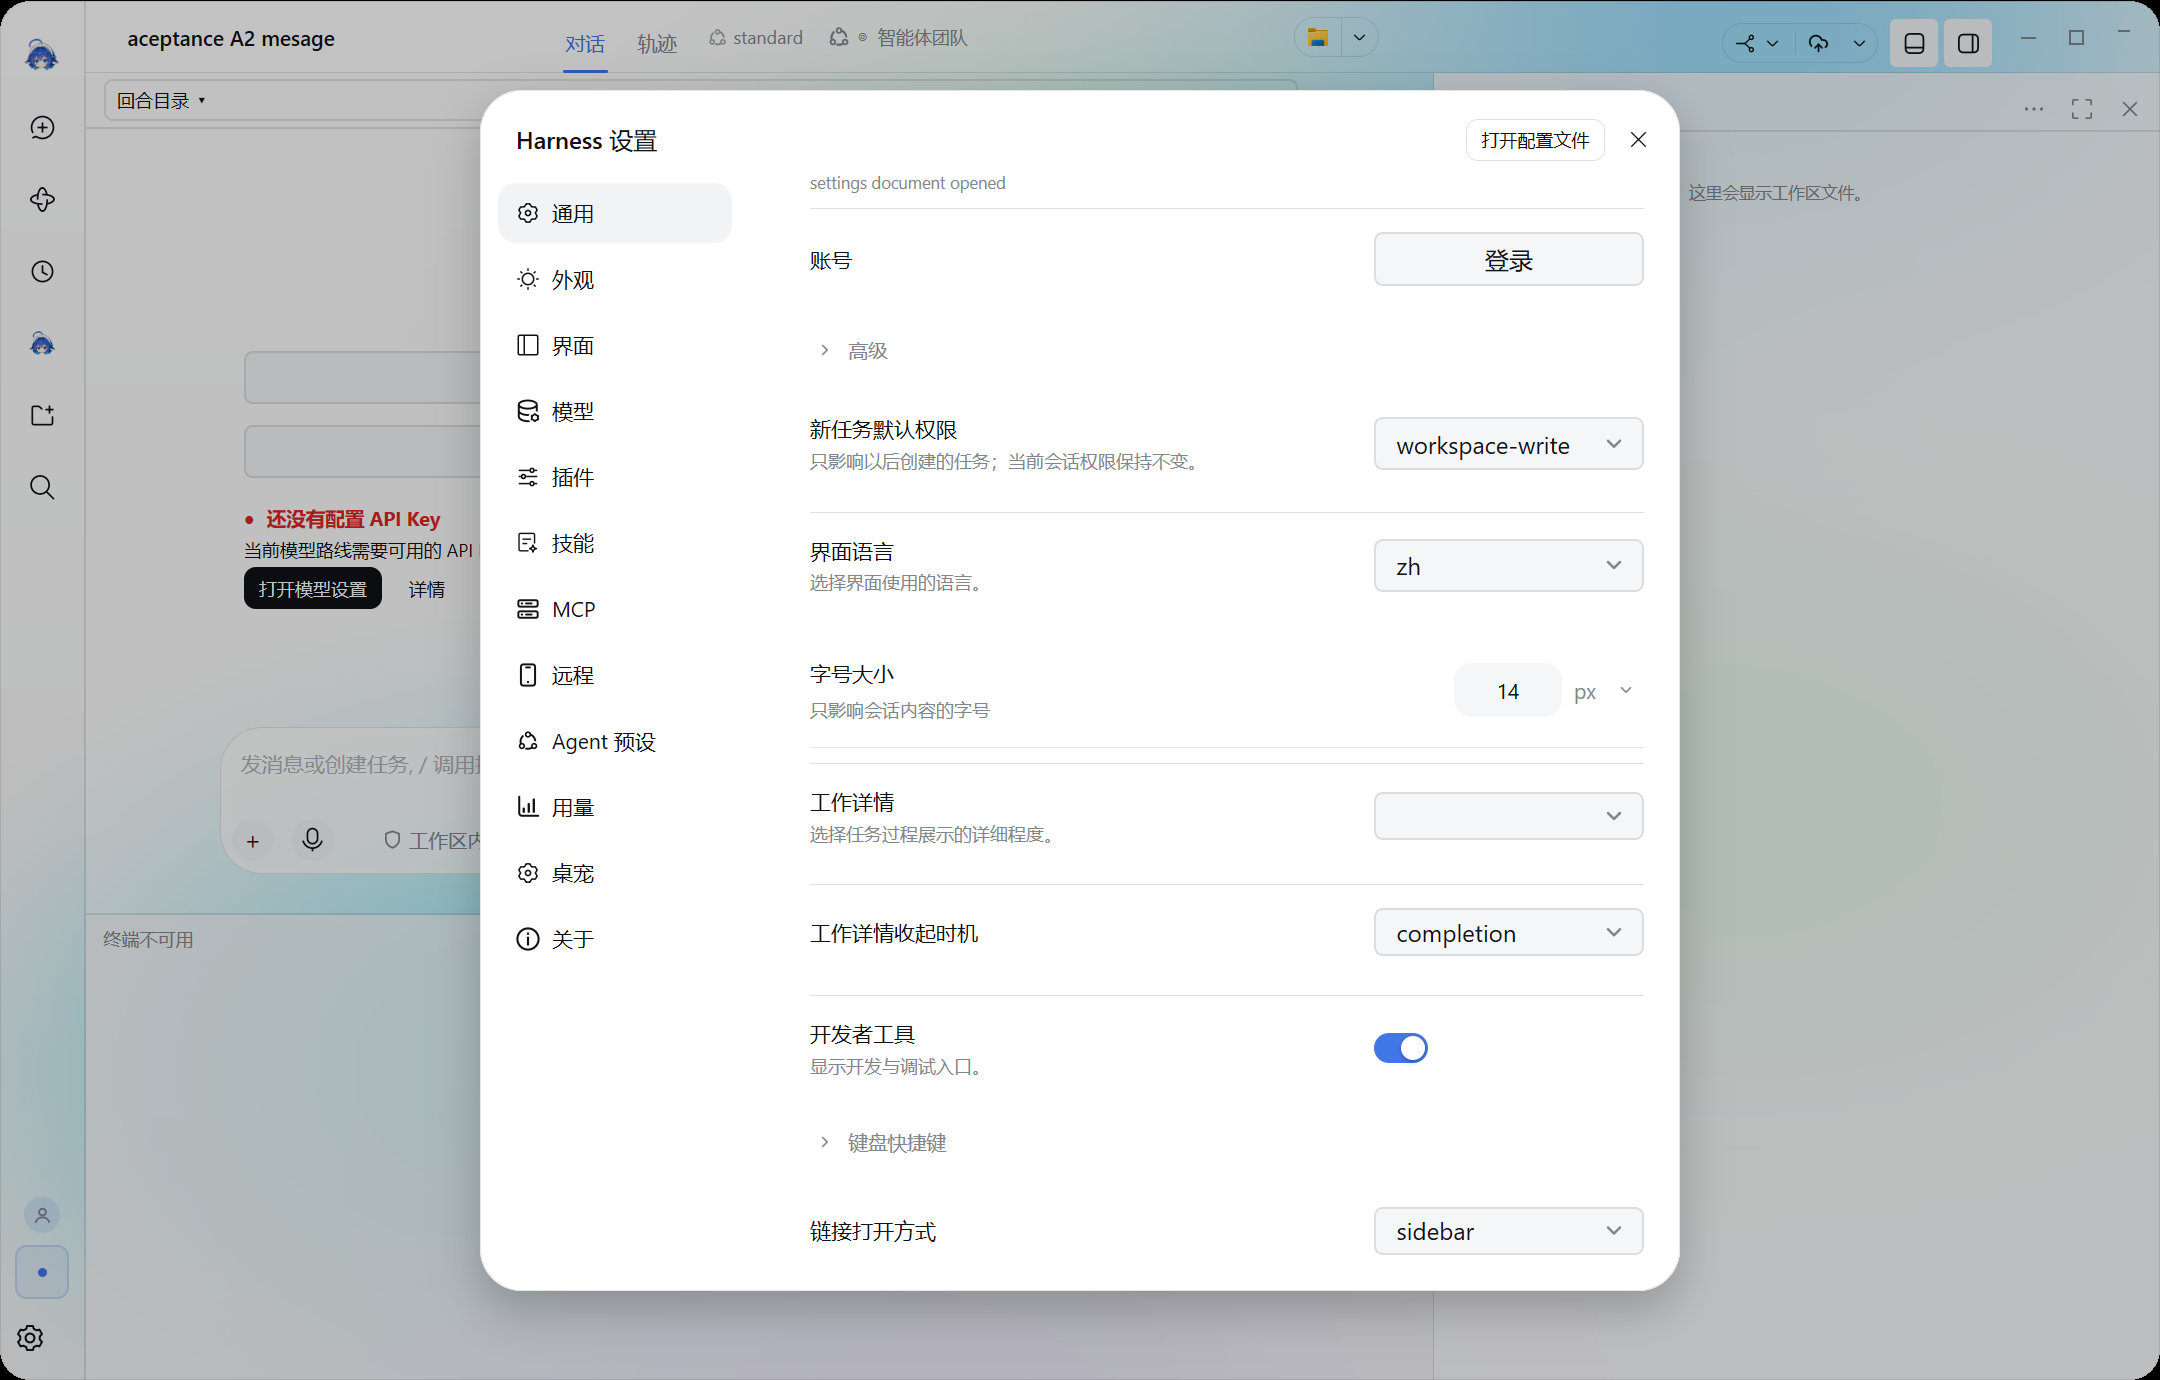
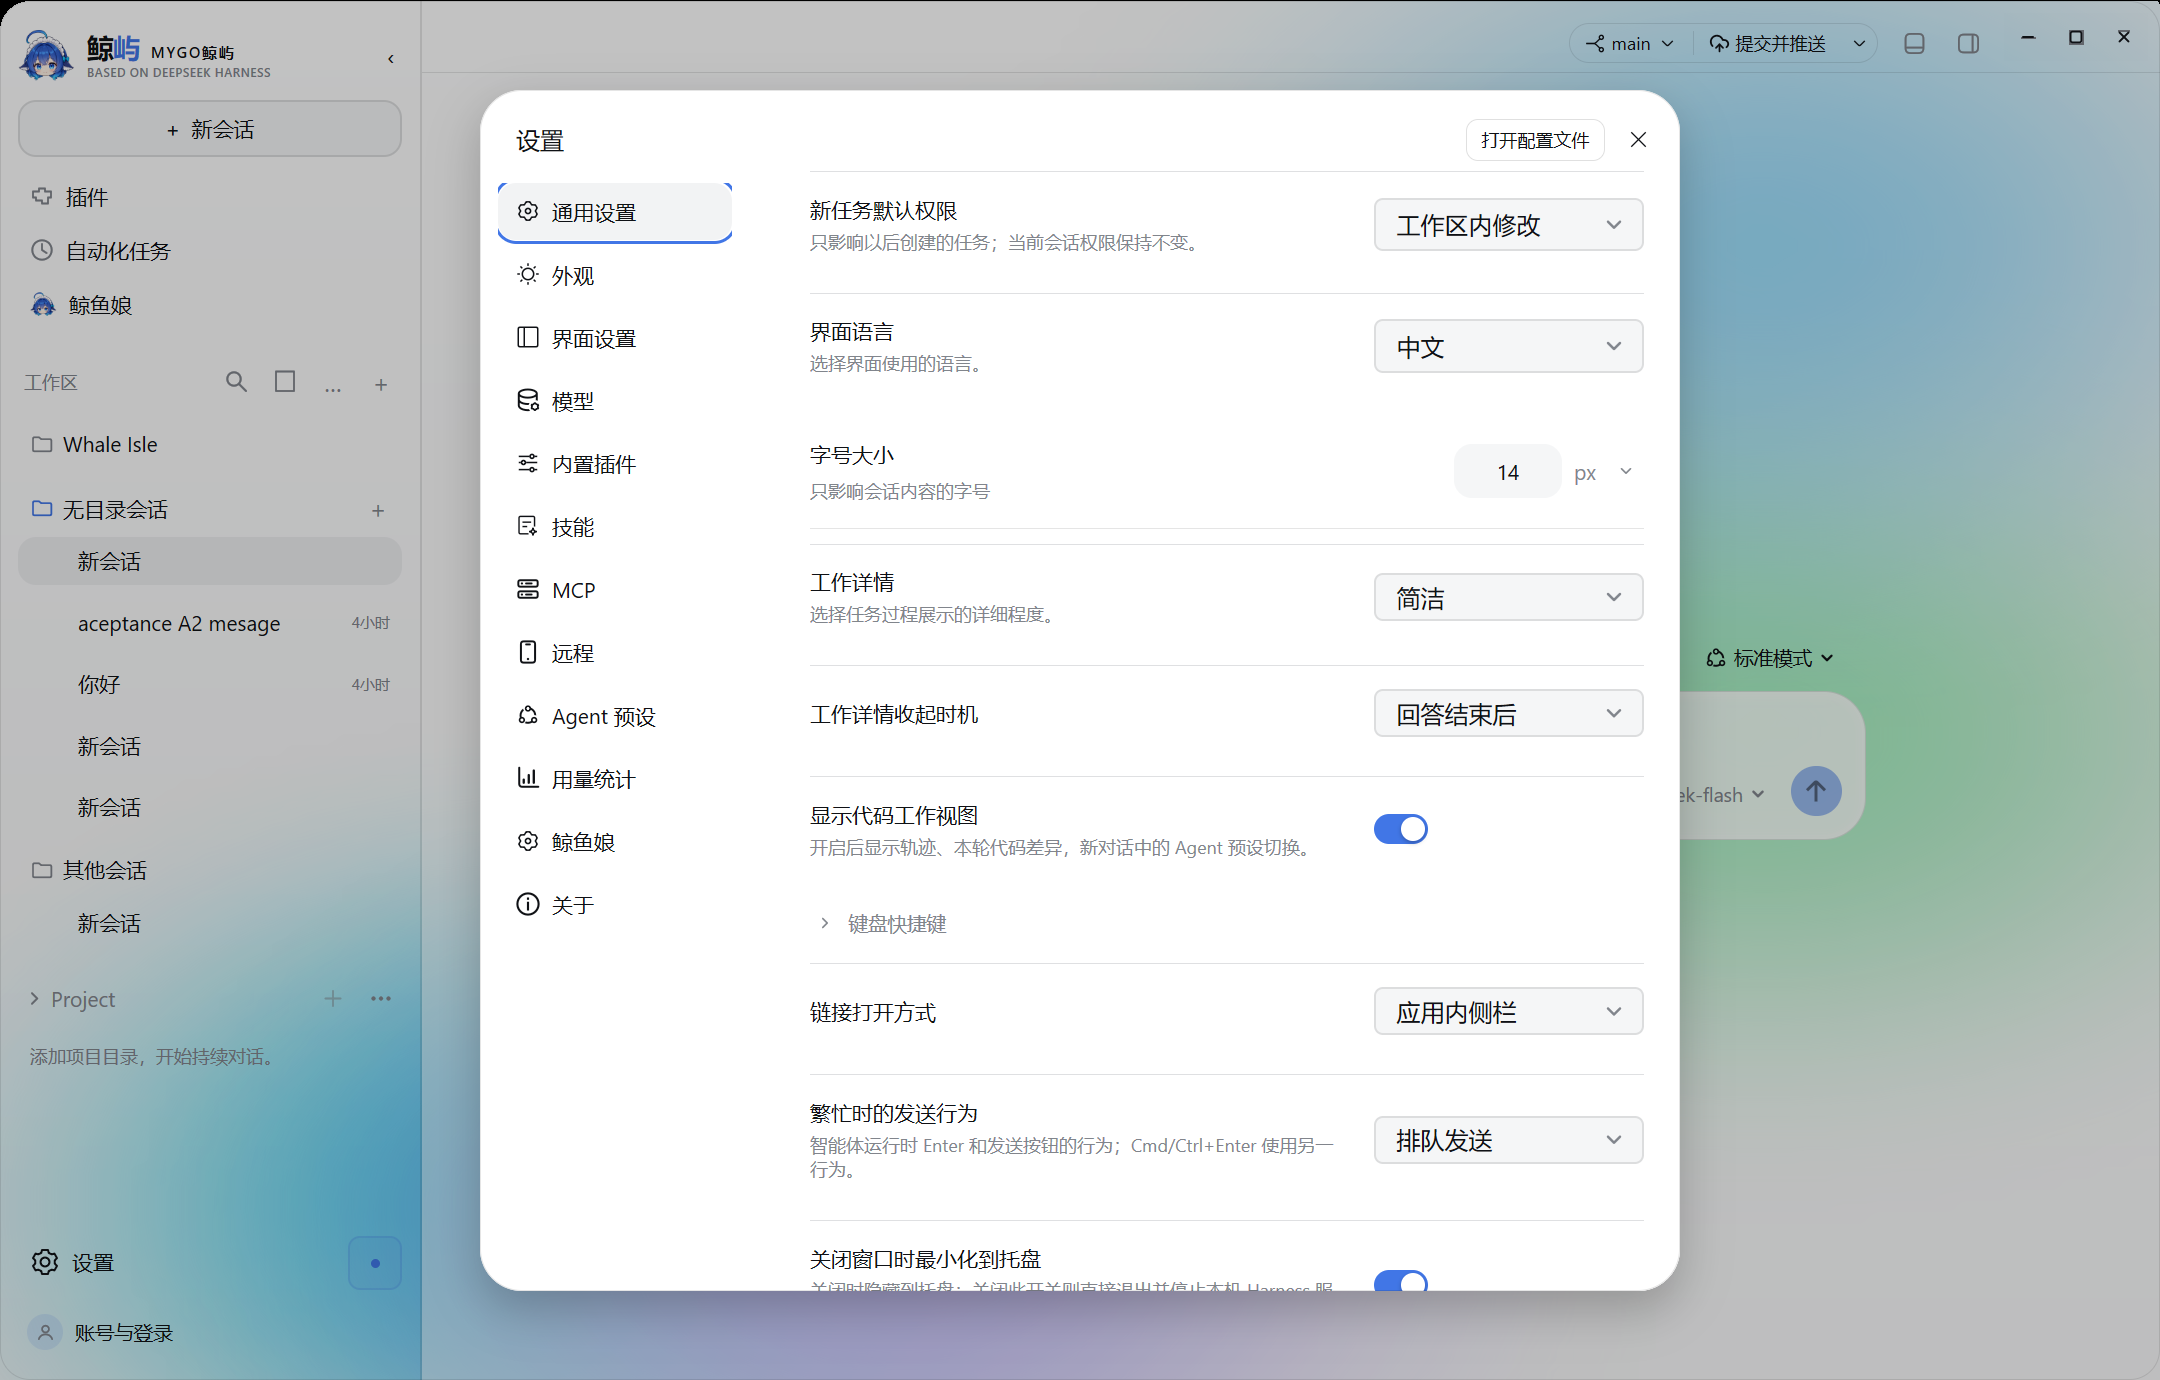
fix: format the general settings select values
The default-permission select showed the raw workspace-write token, the language
select showed zh and busy-send showed queue. Permission option labels now fall
back to the localized enum copy when the Host has no display name, the language
select shows 中文/English and maps back to zh/en, and queue/steer are localized.
An unset enum shows the Host's first option instead of an empty box.

The General page also paints its account shortcut and namespace browser after
the reference rows, so permission/language/font/work detail/shortcuts/links/
busy/close appear in the reference order. Live screenshot updated.

diff --git a/internal/ui/settings/desktop.go b/internal/ui/settings/desktop.go
@@ -60,7 +60,17 @@ func desktopPane(c *ui.Context, m Model, fg, muted ui.Color) {
 	generalPermissionPreference(c, d.Host, fg, muted)
 	if d.Fields.Locale != nil {
 		bodyPreferenceRow(c, "general-language", i18n.T(i18n.KeySettingsDesktopLocale), providerCopy("选择界面使用的语言。", "Choose the interface language."), fg, muted, func() {
-			ui.Select(c, d.Fields.Locale, []string{"zh", "en"}).FillWidth().Disabled(d.OnSave == nil).Label(i18n.T(i18n.KeySettingsDesktopLocale))
+			lang := "中文"
+			if *d.Fields.Locale == "en" {
+				lang = "English"
+			}
+			if ui.Select(c, &lang, []string{"中文", "English"}).FillWidth().Disabled(d.OnSave == nil).Label(i18n.T(i18n.KeySettingsDesktopLocale)).Changed() {
+				if lang == "English" {
+					*d.Fields.Locale = "en"
+				} else {
+					*d.Fields.Locale = "zh"
+				}
+			}
 		})
 	}
 	if d.Preferences != nil {

diff --git a/internal/ui/settings/body_preferences.go b/internal/ui/settings/body_preferences.go
@@ -208,6 +208,10 @@ func hostEnumLabel(value string) string {
 		return providerCopy("立即", "Immediately")
 	case "sidebar":
 		return providerCopy("应用内侧栏", "In-app sidebar")
+	case "queue":
+		return providerCopy("排队发送", "Queue")
+	case "steer":
+		return providerCopy("引导运行", "Steer")
 	case "new-tab":
 		return providerCopy("新标签页", "New tab")
 	case "system":
@@ -261,6 +265,11 @@ func bodyHostPreference(c *ui.Context, a *BodySettingsAccess, namespace, key, ti
 						}
 					}
 				}
+			}
+			if value == "" && len(options) > 0 {
+				// An unset Host preference still shows the first option the Host
+				// would use, instead of an empty select box.
+				value = options[0]
 			}
 			labels := make([]string, len(options))
 			for i := range options {

diff --git a/internal/ui/settings/settings.go b/internal/ui/settings/settings.go
@@ -237,12 +237,18 @@ func formPane(c *ui.Context, m Model, snap settings.ViewState, fg, muted, border
 			m.SectionContent(c)
 			return
 		}
-		if active == SectionGeneral {
-			generalNavigation(c, m, snap, fg, muted)
-		}
 		if m.DesktopActive && m.Desktop != nil {
 			desktopPane(c, m, fg, muted)
+			if active == SectionGeneral {
+				// The reference keeps its General rows (permission, language,
+				// font, work detail, shortcuts, links, busy/close) at the top;
+				// the account shortcut and the namespace browser sit last.
+				generalNavigation(c, m, snap, fg, muted)
+			}
 			return
+		}
+		if active == SectionGeneral {
+			generalNavigation(c, m, snap, fg, muted)
 		}
 		if m.AccountActive && m.Account != nil {
 			accountPane(c, m, fg, muted)

diff --git a/internal/ui/settings/permission_defaults.go b/internal/ui/settings/permission_defaults.go
@@ -82,7 +82,10 @@ func generalPermissionPreference(c *ui.Context, a *BodySettingsAccess, fg, muted
 	options, values := []string{}, map[string]string{}
 	selected := value
 	for _, option := range defaults.Options {
-		label := option.Name
+		label := hostEnumLabel(option.Value)
+		if label == option.Value && option.Name != "" {
+			label = option.Name
+		}
 		if label == "" {
 			label = option.Value
 		}

diff --git a/docs/review-20261020/acceptance-matrix.md b/docs/review-20261020/acceptance-matrix.md
@@ -172,3 +172,5 @@ settings.ModalView → SectionContent → paintMainContent("")
 
 - G1 首屏证据补齐：evidence/acceptance/G1-first-screen.png（2160×1380，无第三方窗口遮挡；终端抽屉关闭后的 hero 空态）。
 - 通用设置文案对齐参考：显示代码工作视图（轨迹/代码差异/预设切换）、繁忙时的发送行为、关闭窗口时最小化到托盘（并说明关闭即退出并停止 Harness）。
+
+- 通用设置实机复验（pass28）：权限「工作区内修改」、语言「中文」、工作详情「简洁」、收起时机「回答结束后」、链接「应用内侧栏」、繁忙发送「排队发送」均显示本地化文案；账号/高级移动到页尾，主行顺序与参考一致。截图 settings-live/general.png。
